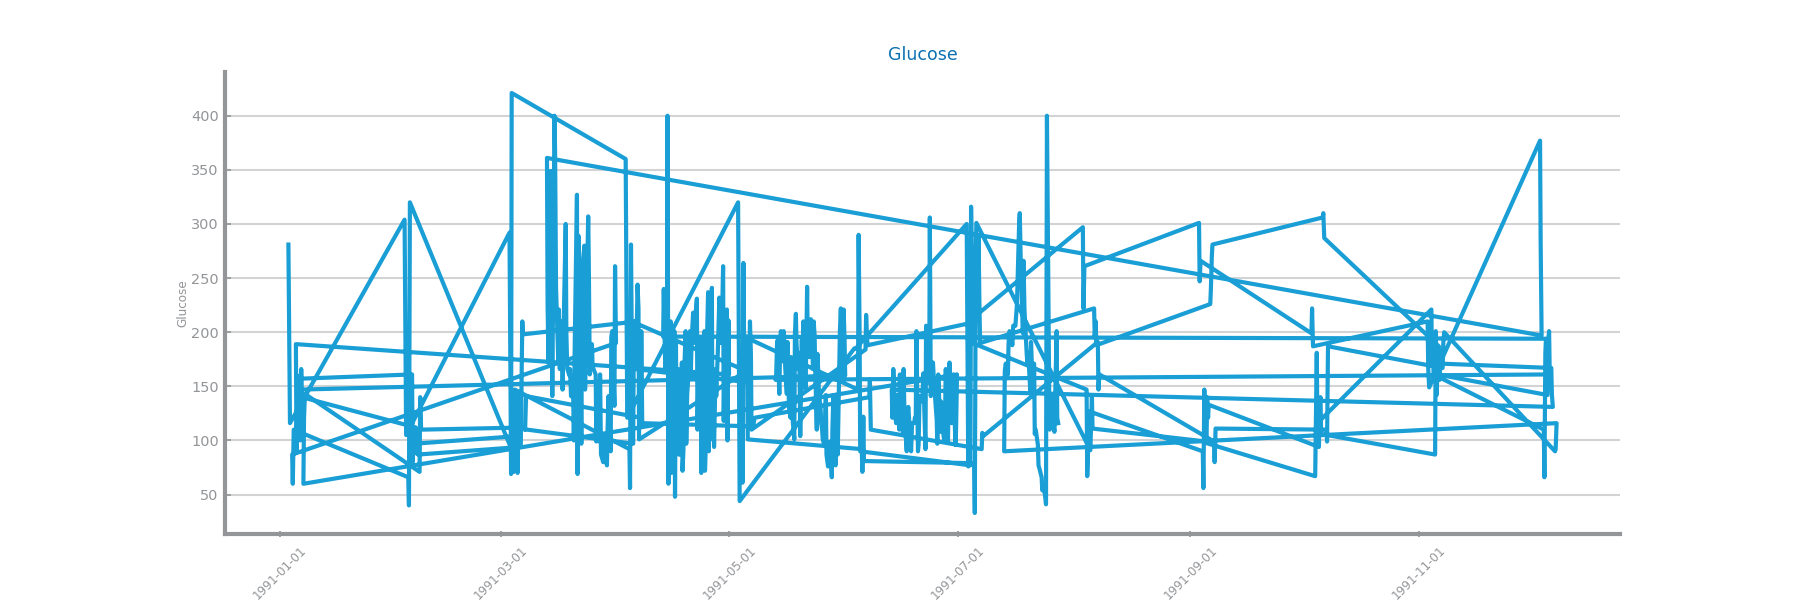
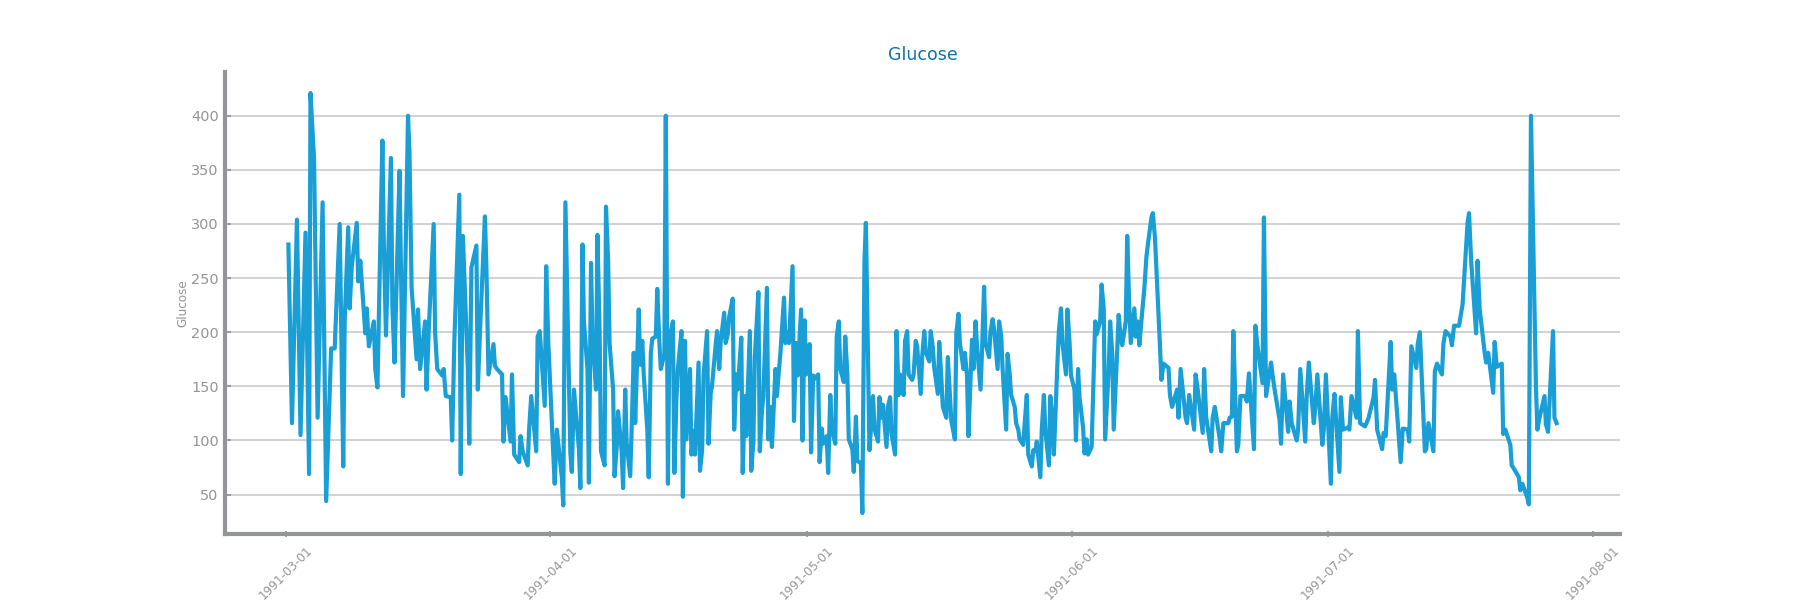
timeSeries Glucose resolvido

diff --git a/entrega6/timeSeriesGlucose.py b/entrega6/timeSeriesGlucose.py
@@ -2,12 +2,13 @@ from pandas import read_csv
 from matplotlib.pyplot import figure, xticks, savefig, show
 from ts_functions import plot_series, HEIGHT
 
-data = read_csv('data/glucoseMRows.csv', index_col='Date', sep=',', decimal='.', parse_dates=True, infer_datetime_format=True)
+data = read_csv('entrega6/data/glucoseMRows.csv', index_col='Date', sep=',', decimal='.', parse_dates=True, infer_datetime_format=True, dayfirst=True)
+
+data.sort_values('Date', axis=0, ascending=True, inplace=True, kind='quicksort', na_position='last', ignore_index=False, key=None)
 print("Nr. Records = ", data.shape[0])
 print("First timestamp", data.index[0])
 print("Last timestamp", data.index[-1])
 figure(figsize=(3*HEIGHT, HEIGHT))
 plot_series(data, x_label='Date', y_label='Glucose', title='Glucose')
 xticks(rotation = 45)
-savefig('images/glucoseMRows.png')
-show()
+savefig('entrega6/images/glucoseMRows.png')
